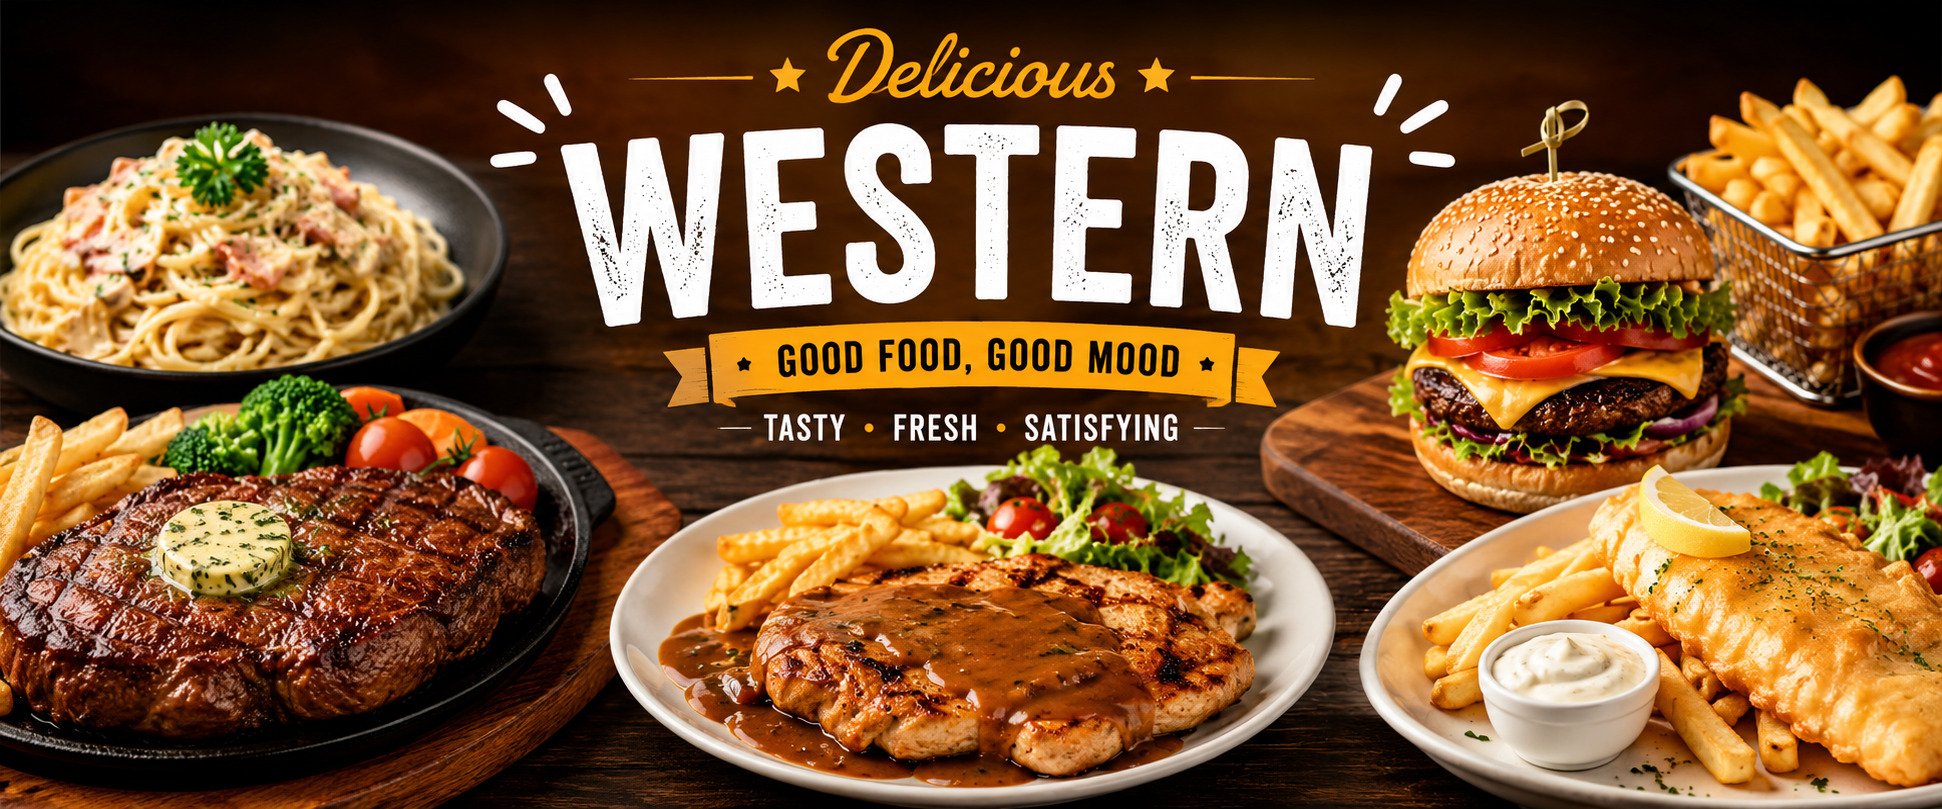
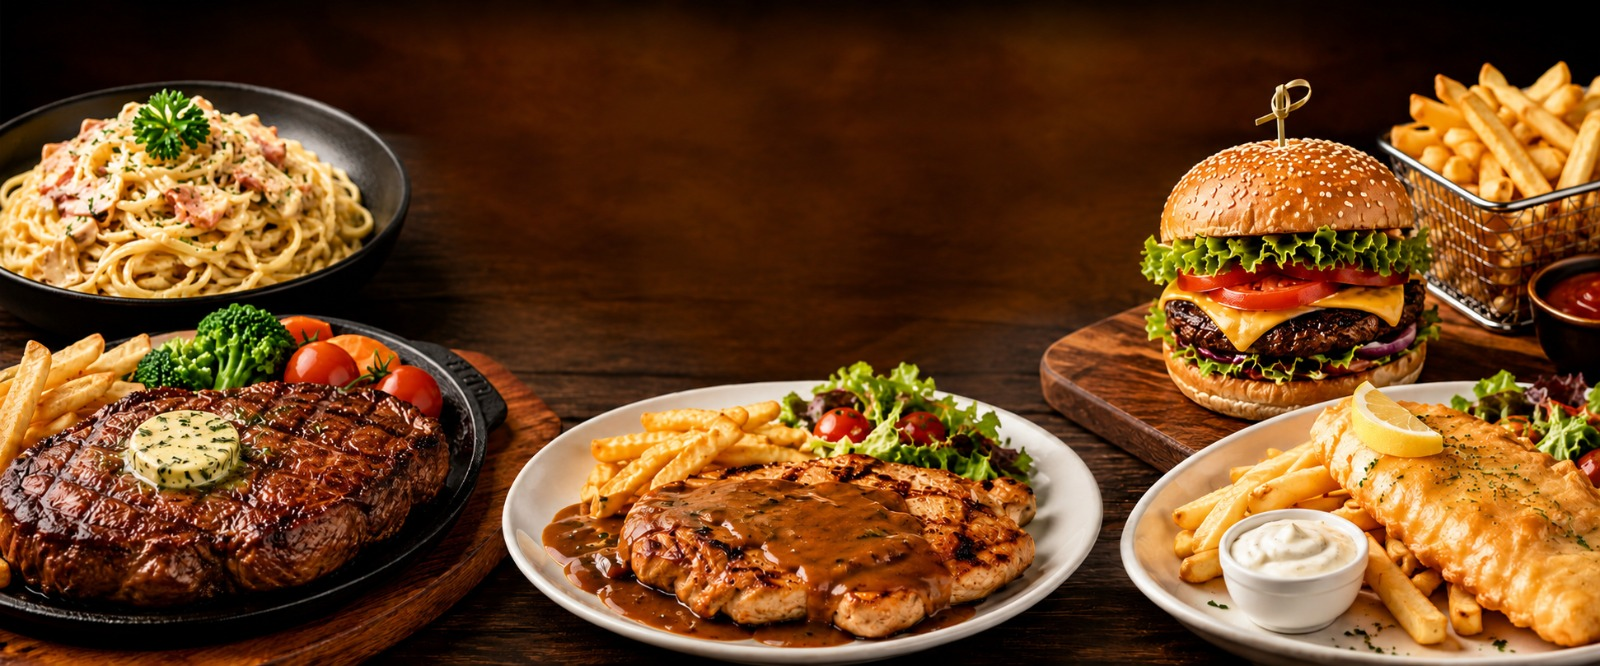
IT110FAssignment2Team4!7.0

diff --git a/Assignment 2/About_Us.css b/Assignment 2/About_Us.css
@@ -2,11 +2,11 @@
         body {
             margin: 0;
             background-color :rgb(255, 253, 253);
-            background-image: url("Banner.jpg.jpeg");
+            background-image: url("Banner.jpg");
             background-position: top center;
             background-attachment: fixed;}
         /* Background */
-        main{
+        main {
                 margin: 2.5% 5% 2.5% 5%;
                 background-color: #FFFFE0;
                 border-radius: 15px;
@@ -62,35 +62,31 @@
             margin: 20px auto;
             width: 70%;
             max-width: 1000px;}
-        /* For Team Info */
-        .section{
-            margin-left: 15%;
+        /* For Team Info & History */
+        .section, .section2{
+            width: 90%;
+            max-width: 1200px;
+            margin: 50px auto;
+            flex-wrap: wrap;
             display: flex;
+            justify-content: center;
             align-items: center;
-            gap: 50px;}
-        /* For History */
-        .section2{
-            margin-left: 15%;
-            display: flex;
-            align-items: center;
-            gap: 50px;}
-        /* Team Info Image */
-        .section img{
-            border-radius: 6px;
+            gap: 25px;}
+        /* Team Info Image & History Image */
+        .section img, .section2 img{
+            border-radius: 10px;
             width: 60%;
-            max-width: 600px;
+            max-width: 500px;
             margin-top: 40px;
-            height: auto;}
-        /* History Image */
-        .section2 img{
-            border-radius: 6px;
-            width: 60%;
-            max-width: 600px;
-            margin-top: 40px;
-            height: auto;}
+            height: auto;
+            transition: transform 0.3s ease, box-shadow 0.3s ease;}
+        /* Hover over Images */
+            .section img:hover, .section2 img:hover{
+            transform: scale(1.03);
+            box-shadow: 0 4px 8px rgb(21, 20, 20);}
         
         .text{
-            width: 50%;
+            min-width: 300px;
             max-width: 500px;
             display: flex;
             flex-direction: column;

diff --git a/Assignment 2/About.html b/Assignment 2/About.html
@@ -1,4 +1,5 @@
 <!--Flores Francis Xavier Guillen 261060F-->
+
 <!DOCTYPE html>
 <html lang="en">
     <head>
@@ -37,7 +38,7 @@
         <h2>At W Foods, our team is dedicated to delivering quality food and excellent service to every customer. From preparing fresh ingredients to cooking delicious Western meals and providing friendly customer service, each team member plays an important role. Together, we strive to create a welcoming dining experience where every meal is served with care and passion.</h2>
 </div>
 </div>
-        <img src="Vision_AI.png" alt="Team Information">
+        <img src="TeamInfo_AI.png" alt="Team Information">
 </div>
     <div class="section2">
         <img src="History_AI.png" alt="History">
@@ -54,6 +55,7 @@
 
 </main>
 
+<!--Copied from the Homepage-->
 <footer>
 
 <p><strong>📍 W Foods</strong></p>
@@ -65,7 +67,6 @@
 <p>© 2026 W Foods. All Rights Reserved.</p>
 
 </footer>
-
 </body>
 </html>
 

diff --git a/Assignment 2/ColorStyle.css b/Assignment 2/ColorStyle.css
@@ -1,7 +1,7 @@
 /* Author: Cheng Jin Rong, Admin No. 261126U */
         body {
             font-family: Arial, sans-serif;
-            background: url('Banner.jpg.jpeg');
+            background: url('Banner.jpg.');
             background-size: cover;
             background-position: center;
             background-attachment: fixed;

diff --git a/Assignment 2/ColorStyle2.css b/Assignment 2/ColorStyle2.css
@@ -4,7 +4,7 @@
             min-height: 100vh;
             text-align: center;
             font-family: Arial, sans-serif;
-            background-image: url('Banner.jpg.jpeg');
+            background-image: url('Banner.jpg.');
             background-position: center;
             color: #2f2f2f;
             padding: 20px;

diff --git a/Assignment 2/ColorStyle3.css b/Assignment 2/ColorStyle3.css
@@ -2,7 +2,7 @@
 
 body {
     font-family: Arial, sans-serif;
-    background-image: url('Banner.jpg.jpeg');
+    background-image: url('Banner.jpg.');
     background-size: cover;
     background-position: center;
     background-attachment: fixed;

diff --git a/Assignment 2/product1.css b/Assignment 2/product1.css
@@ -7,7 +7,7 @@ body {
     background-attachment: fixed;
     text-align: center;
     min-height: 100vh;
-    background-image: url("Banner.jpg.jpeg");
+    background-image: url("Banner.jpg.");
     background-position: center;
 }
 

diff --git a/Assignment 2/Real Draft 3.html b/Assignment 2/Real Draft 3.html
@@ -33,7 +33,7 @@
 </p>
 <hr>
 
-<img src="Banner.jpg" class="banner" alt="Western Food">
+<img src="Banner.jpg.jpeg" class="banner" alt="Western Food">
 <!--This is AI Generated Content-->
 
 <br><br>
